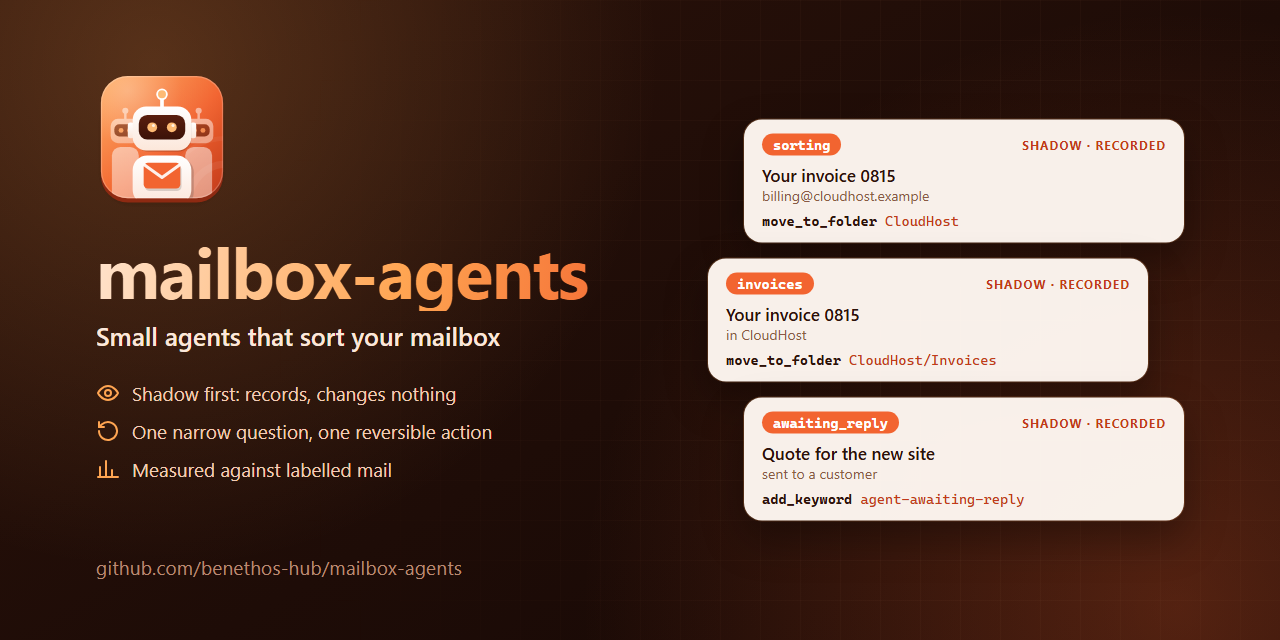
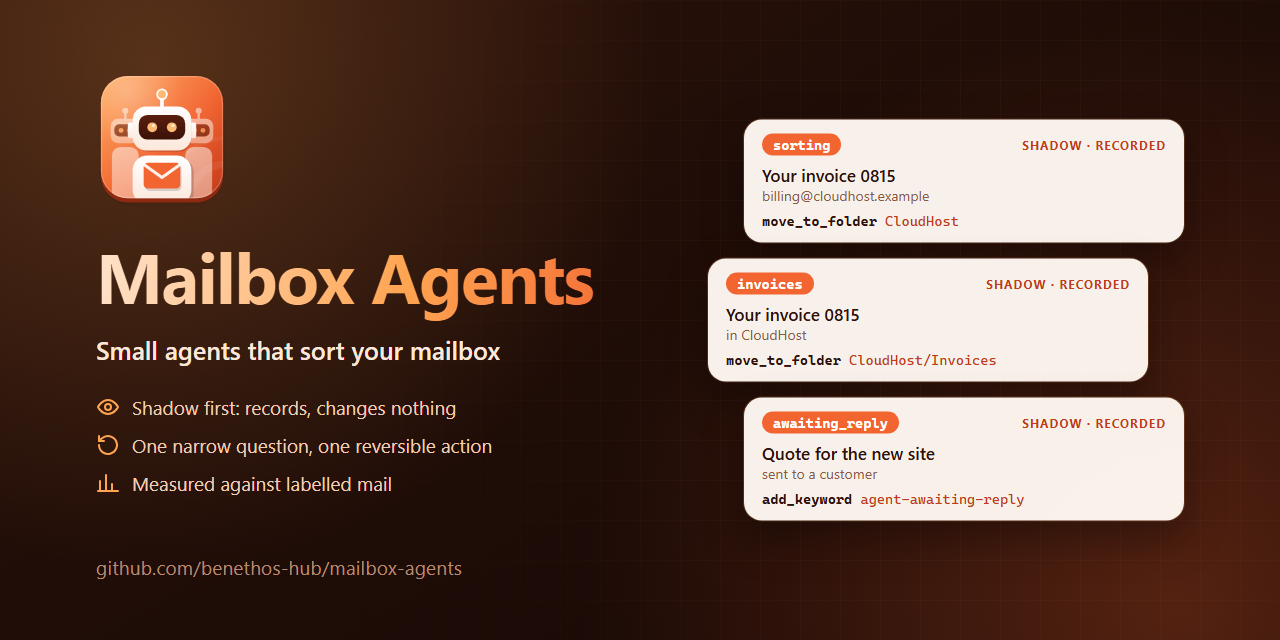
Name the project Mailbox Agents where people read it
The README title, the icon's title and the social preview say Mailbox
Agents. SPECS.md names it beside the technical names. The title of the
social preview gets room below its line, so the descender of the g is
no longer cut off.

Changed region(s): [[0.0625, 0.375, 0.4688, 0.5625], [0.0625, 0.5938, 0.375, 0.7812]]

diff --git a/assets/build.py b/assets/build.py
@@ -31,7 +31,7 @@ SOCIAL_SIZE = (1280, 640)
 
 _ROOT_SIZE = re.compile(r'^(<svg [^>]*?)width="([\d.]+)" height="([\d.]+)"')
 
-NAME = "mailbox-agents"
+NAME = "Mailbox Agents"
 CLAIM = "Small agents that sort your mailbox"
 ADDRESS = "github.com/benethos-hub/mailbox-agents"
 # What sets the project apart, each with a sign of 24 by 24.
@@ -105,7 +105,7 @@ _STYLE = """
   .logo svg { width: 100%; height: auto; display: block; }
   .name {
     margin-top: 22px; font-size: 70px; font-weight: 700;
-    letter-spacing: -1.5px; line-height: 1; padding-bottom: 6px;
+    letter-spacing: -1.5px; line-height: 1.15; padding-bottom: 10px;
     background: linear-gradient(100deg, #FFE3CC 0%, #FFA552 55%, #F26430 100%);
     -webkit-background-clip: text; color: transparent;
   }

diff --git a/README.md b/README.md
@@ -1,4 +1,4 @@
-# <img src="https://raw.githubusercontent.com/benethos-hub/mailbox-agents/main/assets/brand/icon.svg" alt="" height="36" align="absmiddle"> benethos-mailbox-agents
+# <img src="https://raw.githubusercontent.com/benethos-hub/mailbox-agents/main/assets/brand/icon.svg" alt="" height="36" align="absmiddle"> Mailbox Agents
 
 Small agents that work on a mailbox continuously. Each one looks at mail as
 it arrives or leaves, decides one narrow question about it and takes one

diff --git a/SPECS.md b/SPECS.md
@@ -66,6 +66,7 @@ on one runtime, and each process runs one of them.
 
 | Where | Name |
 |---|---|
+| Display name, in the README and the brand | Mailbox Agents |
 | Repository | `mailbox-agents` |
 | PyPI distribution | `benethos-mailbox-agents` |
 | Import package | `benethos_mailbox_agents` |
